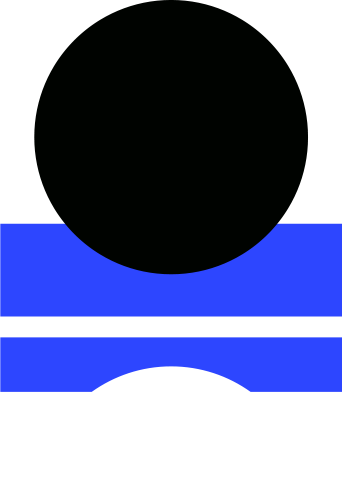
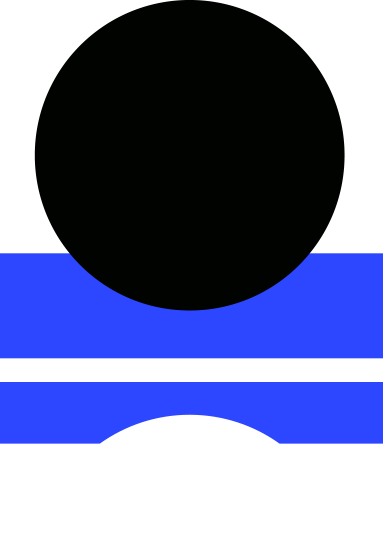
追記

diff --git a/source/assets/sass/_base.scss b/source/assets/sass/_base.scss
@@ -76,8 +76,6 @@ header {
     height: 100vh;
   }
   @include mq(pc) {
-    margin: 0 auto;
-    max-width: 1000px;
     min-height: 660px;
     height: 100vh;
   }
@@ -92,46 +90,46 @@ header {
       padding-top: 100px;
     }
     @include mq(pc) {
-      padding-top: 140px;
-    }
-    img {
-      @media screen and (min-width: 1000px) and (max-height: 759px) {
-        width: 240px;
-      }
-      @media screen and (min-width: 1000px) and (min-height: 760px) {
-        width: 342px;
+      padding-bottom: 140px;
+      img {
+        @media screen and (max-height: 759px) {
+          width: 260px;
+        }
+        @media screen and (min-height: 760px) {
+          width: 383px;
+        }
       }
     }
   }
   .p_01 {
-    width: 43px;
     position: absolute;
-    @media screen and (min-width: 1000px) and (max-height: 759px) {
-      top: 180px;
-      right: 180px;
-      text-align: center;
-      img {
-        width: 80%;
+    @include mq(pc) {
+      top: 36px;
+      right: 36px;
+      @media screen and (max-height: 759px) {
+        width: 120px;
       }
-    }
-    @media screen and (min-width: 1000px) and (min-height: 760px) {
-      top: 220px;
-      right: 102px;
+      @media screen and (min-height: 760px) {
+        width: 167px;
+      }
     }
   }
   .time_01 {
     display: block;
     position: absolute;
-    top: 0;
+    bottom: 18px;
     left: 0;
     width: 100%;
     text-align: center;
-    img {
-      @media screen and (min-width: 1000px) and (max-height: 759px) {
-        width: 80%;
-      }
-      @media screen and (min-width: 1000px) and (min-height: 760px) {
-        width: 100%;
+    @include mq(pc) {
+      margin: 0 auto;
+      img {
+        @media screen and (max-height: 759px) {
+          width: 800px;
+        }
+        @media screen and (min-height: 760px) {
+          width: 1000px;
+        }
       }
     }
   }
@@ -259,6 +257,7 @@ main {
       display: inline-block;
       margin: 0 20px;
       a {
+        transition: ease .24s all;
         opacity: .6;
         cursor: pointer;
         &:hover,

diff --git a/public/assets/css/style.css b/public/assets/css/style.css
@@ -294,10 +294,8 @@ header
 {
     header
     {
-        max-width: 1000px;
         height: 100vh; 
         min-height: 660px;
-        margin: 0 auto;
     }
 }
 header .h1_01
@@ -325,55 +323,53 @@ header .h1_01
 {
     header .h1_01
     {
-        padding-top: 140px;
+        padding-bottom: 140px;
     }
 }
 @media screen and (min-width: 1000px) and (max-height: 759px)
 {
     header .h1_01 img
     {
-        width: 240px;
+        width: 260px;
     }
 }
 @media screen and (min-width: 1000px) and (min-height: 760px)
 {
     header .h1_01 img
     {
-        width: 342px;
+        width: 383px;
     }
 }
 header .p_01
 {
-    position: absolute; 
-
-    width: 43px;
+    position: absolute;
+}
+@media screen and (min-width: 1000px)
+{
+    header .p_01
+    {
+        top: 36px;
+        right: 36px;
+    }
 }
 @media screen and (min-width: 1000px) and (max-height: 759px)
 {
     header .p_01
     {
-        top: 180px;
-        right: 180px;
-
-        text-align: center;
-    }
-    header .p_01 img
-    {
-        width: 80%;
+        width: 120px;
     }
 }
 @media screen and (min-width: 1000px) and (min-height: 760px)
 {
     header .p_01
     {
-        top: 220px;
-        right: 102px;
+        width: 167px;
     }
 }
 header .time_01
 {
     position: absolute;
-    top: 0;
+    bottom: 18px;
     left: 0;
 
     display: block;
@@ -382,18 +378,25 @@ header .time_01
 
     text-align: center;
 }
+@media screen and (min-width: 1000px)
+{
+    header .time_01
+    {
+        margin: 0 auto;
+    }
+}
 @media screen and (min-width: 1000px) and (max-height: 759px)
 {
     header .time_01 img
     {
-        width: 80%;
+        width: 800px;
     }
 }
 @media screen and (min-width: 1000px) and (min-height: 760px)
 {
     header .time_01 img
     {
-        width: 100%;
+        width: 1000px;
     }
 }
 
@@ -606,6 +609,8 @@ main
 #index .mc .mc_pager li a
 {
     cursor: pointer; 
+    -webkit-transition: ease .24s all;
+            transition: ease .24s all;
 
     opacity: .6;
 }

diff --git a/source/assets/css/style.css b/source/assets/css/style.css
@@ -294,10 +294,8 @@ header
 {
     header
     {
-        max-width: 1000px;
         height: 100vh; 
         min-height: 660px;
-        margin: 0 auto;
     }
 }
 header .h1_01
@@ -325,55 +323,53 @@ header .h1_01
 {
     header .h1_01
     {
-        padding-top: 140px;
+        padding-bottom: 140px;
     }
 }
 @media screen and (min-width: 1000px) and (max-height: 759px)
 {
     header .h1_01 img
     {
-        width: 240px;
+        width: 260px;
     }
 }
 @media screen and (min-width: 1000px) and (min-height: 760px)
 {
     header .h1_01 img
     {
-        width: 342px;
+        width: 383px;
     }
 }
 header .p_01
 {
-    position: absolute; 
-
-    width: 43px;
+    position: absolute;
+}
+@media screen and (min-width: 1000px)
+{
+    header .p_01
+    {
+        top: 36px;
+        right: 36px;
+    }
 }
 @media screen and (min-width: 1000px) and (max-height: 759px)
 {
     header .p_01
     {
-        top: 180px;
-        right: 180px;
-
-        text-align: center;
-    }
-    header .p_01 img
-    {
-        width: 80%;
+        width: 120px;
     }
 }
 @media screen and (min-width: 1000px) and (min-height: 760px)
 {
     header .p_01
     {
-        top: 220px;
-        right: 102px;
+        width: 167px;
     }
 }
 header .time_01
 {
     position: absolute;
-    top: 0;
+    bottom: 18px;
     left: 0;
 
     display: block;
@@ -382,18 +378,25 @@ header .time_01
 
     text-align: center;
 }
+@media screen and (min-width: 1000px)
+{
+    header .time_01
+    {
+        margin: 0 auto;
+    }
+}
 @media screen and (min-width: 1000px) and (max-height: 759px)
 {
     header .time_01 img
     {
-        width: 80%;
+        width: 800px;
     }
 }
 @media screen and (min-width: 1000px) and (min-height: 760px)
 {
     header .time_01 img
     {
-        width: 100%;
+        width: 1000px;
     }
 }
 
@@ -606,6 +609,8 @@ main
 #index .mc .mc_pager li a
 {
     cursor: pointer; 
+    -webkit-transition: ease .24s all;
+            transition: ease .24s all;
 
     opacity: .6;
 }

diff --git a/public/index.html b/public/index.html
@@ -204,7 +204,7 @@
           </div>
         </div>
         <div class="l_box_02">
-          <h3 class="h3_01">instagram</h3>
+          <h3 class="h3_01">Instagram</h3>
           <ul class="ul_01" id="instagram">
             <li><a href=""><img src="assets/images/instagram1.jpg" alt=""></a></li>
             <li><a href=""><img src="assets/images/instagram2.jpg" alt=""></a></li>

diff --git a/source/index.html b/source/index.html
@@ -204,7 +204,7 @@
           </div>
         </div>
         <div class="l_box_02">
-          <h3 class="h3_01">instagram</h3>
+          <h3 class="h3_01">Instagram</h3>
           <ul class="ul_01" id="instagram">
             <li><a href=""><img src="assets/images/instagram1.jpg" alt=""></a></li>
             <li><a href=""><img src="assets/images/instagram2.jpg" alt=""></a></li>
